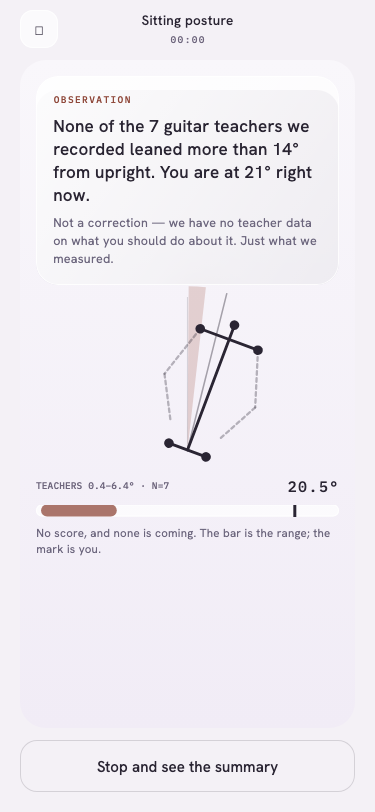
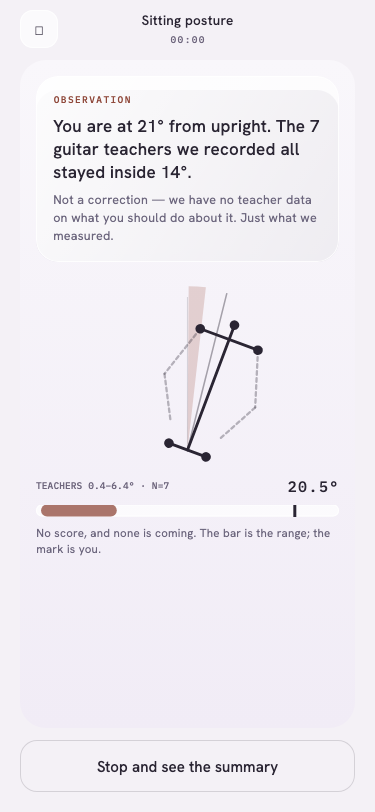
Replik çeşitliliği: 1 varyant × 13 ateşleme → 6 varyant (O-062)
Koordinatörün sevk ettiği JabLab bulgusu bende ÖLÇÜLDÜ ve daha kötü çıktı.

ÖLÇÜM:
· golden katalog: **1 şablon, 1 varyant** (`slots` varyant değil, 4 yer-tutucu)
· gözlem işareti periyodu: **31,68sn** (O-032/O-035 CANLI ölçümü, tahmin değil)
· en uzun işaretli ders `guitar.foundations.posture_under_play` 7 dk
  → **~13 ateşleme**, hepsi AYNI 125 karakterlik cümle.
JabLab'ın en kötüsü 12 ateşleme × 2 varyant = 6 tekrardı; bende 13 × 1 = 13.

KÖK NEDEN — ve bu benim kendi kanıtımın tuzağı: O-035'te işaretin NADİR
GÖRÜNÜR olduğunu kanıtlamıştım (pencerenin %7,4'ü) ve o kanıt beni "nadir
öğe" diye düşünmeye itti. **Nadir GÖRÜNEN bir öğe, sık TEKRARLANAN bir cümle
olabilir** — görünürlük ile söylenme sıklığı ayrı eksenler.

İÇERİK: 6 varyant. Altısı da AYNI ÜÇ olguyu taşır (kaynak sayısı + eşik +
anlık ölçüm) ve aynı yasak-kelime kapısından geçer. **variants[0] MEVCUT
metindir** — widget testleri ve 11 kanıt karesi onun üzerine kurulu; ilk
ateşlemeyi değiştirmek kanıtlanmış bir şeyi kanıtsız yapardı.

MEKANİZMA: round-robin, RASTGELE DEĞİL. Rastgelelik iki kez yanlış olurdu:
aynı varyant arka arkaya gelebilir (çözdüğü sorunu çözmez) ve bu yüzeyin
kanıtı deterministik testlere dayanıyor.

ÜÇ KAPI, üçü de ayrı arızaya bakıyor:
· `validate_observation_cues.py` genişletildi — kapı YALNIZ `text`e
  bakıyordu, `variants` onun DIŞINDAYDI (gecenin altıncı "yeni alan, kapının
  dışında" tekrarı). Artık her varyant: yasak kelime + yuva tamlığı +
[…]

Changed region(s): [[0.1467, 0.1232, 0.8507, 0.3387]]

diff --git a/lib/app/cue_text.dart b/lib/app/cue_text.dart
@@ -16,29 +16,51 @@ import 'package:ostinato_posture/ostinato_posture.dart';
 final class CueTextResolver {
   CueTextResolver._(this._templates);
 
-  final Map<String, String> _templates;
+  /// Şablon kimliği → VARYANT listesi. Tek varyantlı bir şablon da burada
+  /// tek elemanlı listedir; çağıran taraf farkı görmez.
+  final Map<String, List<String>> _templates;
+
+  /// Şablon başına round-robin sayacı — RASTGELE DEĞİL.
+  ///
+  /// Rastgelelik burada iki kez yanlış olurdu: (1) aynı varyant arka arkaya
+  /// gelebilir, yani çözdüğü sorunu çözmez; (2) bu yüzeyin kanıtı
+  /// deterministik testlere dayanıyor (`cue_cooldown_visibility_test`,
+  /// 11 kanıt karesi) ve rastgele bir seçim onları ölçülemez kılardı.
+  final Map<String, int> _next = <String, int>{};
 
   static Future<CueTextResolver> load() async {
     final String raw = await rootBundle
         .loadString('config/observation-cue-templates.golden.json');
     final Map<String, dynamic> doc = jsonDecode(raw) as Map<String, dynamic>;
     final Map<String, dynamic> tpl = doc['templates'] as Map<String, dynamic>;
-    return CueTextResolver._(<String, String>{
+    return CueTextResolver._(<String, List<String>>{
       for (final MapEntry<String, dynamic> e in tpl.entries)
-        e.key: (e.value as Map<String, dynamic>)['text'] as String,
+        e.key: <String>[
+          // `variants` varsa o, yoksa tek elemanlı `text`. Geriye-uyum:
+          // varyantsız bir şablon eskisi gibi çalışır.
+          ...((e.value as Map<String, dynamic>)['variants'] as List<dynamic>? ??
+                  <dynamic>[(e.value as Map<String, dynamic>)['text']])
+              .cast<String>(),
+        ],
     });
   }
 
   /// Şablonu yuvalarla doldurur. Bilinmeyen şablon SESSİZCE boş dönmez —
   /// fırlatır: eksik bir şablon, kullanıcıya yarım cümle göstermekten iyidir.
   String resolve(ObservationCue cue) {
-    final String? template = _templates[cue.templateId];
-    if (template == null) {
+    final List<String>? variants = _templates[cue.templateId];
+    if (variants == null || variants.isEmpty) {
       throw StateError(
           'golden katalogda "${cue.templateId}" şablonu YOK — yüzey, motorun '
           'ürettiği bir işareti gösteremiyor');
     }
-    String out = template;
+    // O-062: ÖLÇÜLDÜ — gözlem işareti ~31,68sn periyotla ateşleniyor
+    // (O-032/O-035 canlı ölçümü) ve en uzun işaretli ders 7 dk, yani ~13
+    // ateşleme. Tek varyantla aynı cümle bir derste 13 kez okunuyordu.
+    // NADİR GÖRÜNEN bir öğe, SIK TEKRARLANAN bir cümle olabilir.
+    final int i = _next[cue.templateId] ?? 0;
+    _next[cue.templateId] = (i + 1) % variants.length;
+    String out = variants[i];
     cue.slots.forEach((String k, String v) {
       out = out.replaceAll('{$k}', v);
     });

diff --git a/test/widget_test.dart b/test/widget_test.dart
@@ -112,7 +112,17 @@ void main() {
     expect(find.byKey(const Key('observation-cue')), findsOneWidget,
         reason: 'sapma sürdü ama işaret doğmadı — hep-sessiz yüzey');
     // Şart 3: N + kaynak sınıfı CÜMLENİN İÇİNDE — golden katalogdan.
-    expect(find.textContaining('None of the 7 guitar teachers'), findsOneWidget);
+    //
+    // ⚠ CÜMLE KALIBINA DEĞİL KAYNAĞA bağlanıyoruz (O-062). Önceki hâli
+    // `'None of the 7 guitar teachers'` diyordu; varyantlar eklenince o
+    // kalıp yalnız variants[0]'da kaldı ve test, ürün DOĞRU davranırken
+    // kırmızıya dönüyordu. Şartın kendisi kalıp değil: "kaç kaynak ve hangi
+    // sınıf" cümlenin İÇİNDE geçmeli. Altı varyantın altısı da `{n}` ve
+    // `{sourceClass}` taşıyor — `validate_observation_cues.py` bunu her
+    // varyant için ayrı ayrı kolluyor.
+    expect(find.textContaining('7 guitar teachers'), findsOneWidget,
+        reason: 'işaret kaynağını taşımıyor — sayı ve sınıf cümlenin içinde '
+            'olmalı (hangi varyant seçilirse seçilsin)');
     await src.dispose();
   });
 
@@ -126,8 +136,15 @@ void main() {
       expect(find.byKey(const Key('observation-cue')), findsOneWidget);
       // Golden şablon measuredDeg'i tam sayıya yuvarlar (ObservationCue.slots,
       // toStringAsFixed(0)) — "17°", "17.0°" DEĞİL.
-      expect(find.textContaining('You are at 17° right now'), findsOneWidget);
-      expect(find.textContaining('You are at 22° right now'), findsNothing,
+      //
+      // ⚠ CÜMLEYE DEĞİL SAYIYA bağlanıyoruz (O-062). Önceki hâli
+      // `'You are at 17° right now'` tam cümlesini arıyordu; varyantlar
+      // eklenince (round-robin) ikinci ateşleme BAŞKA bir cümle kullanıyor ve
+      // test, ürün DOĞRU davranırken kırmızıya dönüyordu. Bu testin niyeti
+      // cümle değil TAZELİK: gösterilen sayı güncel ölçümle senkron mu.
+      // Altı varyantın altısı da `{measuredDeg}°` taşıyor (kapı bunu kolluyor).
+      expect(find.textContaining('17°'), findsOneWidget);
+      expect(find.textContaining('22°'), findsNothing,
           reason: 'işaret bayat bir ölçümde donmuş — ekranda çelişen sayı');
       await src.dispose();
     });

diff --git a/test/cue_variant_rotation_test.dart b/test/cue_variant_rotation_test.dart
@@ -1,0 +1,29 @@
+import 'package:flutter_test/flutter_test.dart';
+import 'package:ostinato/app/cue_text.dart';
+import 'package:ostinato_posture/ostinato_posture.dart';
+/// Varyant rotasyonu — O-062.
+///
+/// **Neden ayrı bir test:** varyant EKLEMEK, rotasyonun ÇALIŞTIĞINI
+/// kanıtlamaz. Katalogda altı cümle durup çözücü hep ilkini döndürebilirdi ve
+/// `validate_observation_cues.py` yine yeşil kalırdı (o kapı içeriği
+/// kolluyor, DAVRANIŞI değil). Ölçülen sayı burada: en uzun işaretli ders
+/// 7 dk → ~13 ateşleme (O-032/O-035 canlı periyodu 31,68sn).
+void main() {
+  TestWidgetsFlutterBinding.ensureInitialized();
+  test('round-robin: ardışık çözümler FARKLI cümle verir', () async {
+    final CueTextResolver r = await CueTextResolver.load();
+    const ObservationCue cue = ObservationCue(
+        templateId: 'OBS_TRUNK_OUTSIDE_RANGE',
+        teacherCount: 7, sourceClass: 'guitar teachers',
+        thresholdDeg: 14.0, measuredDeg: 21.0);
+    final List<String> seen = <String>[for (int i = 0; i < 13; i++) r.resolve(cue)];
+    expect(seen.toSet().length, 6, reason: '6 varyant dönmeli');
+    expect(seen[0], seen[6], reason: 'döngü 6da başa sarmalı');
+    expect(seen[0] == seen[1], isFalse, reason: 'ardışık ikisi AYNI olmamalı');
+    // 13 ateşleme (en kötü ders) → her cümle en çok 3 kez
+    final Map<String,int> n = <String,int>{};
+    for (final String s in seen) { n[s] = (n[s] ?? 0) + 1; }
+    expect(n.values.reduce((a,b)=>a>b?a:b), lessThanOrEqualTo(3),
+        reason: 'en kötü derste bir cümle 3ten fazla tekrarlamamalı');
+  });
+}

diff --git a/tools/validate_observation_cues.py b/tools/validate_observation_cues.py
@@ -124,6 +124,27 @@ def main():
 
     # Şart 2: golden şablonların KENDİSİ yasak dil taşıyamaz.
     for tid, tpl in golden["templates"].items():
+        # O-062: `variants` eklendi ve bu kapı YALNIZ `text`e bakıyordu —
+        # yeni alan, kapının dışında kalan yeni yüzey demekti (gecenin altıncı
+        # tekrarı). Artık HER varyant aynı yasak-kelime kapısından geçiyor:
+        # bir varyant emir kipine kayarsa tek başına ihlaldir.
+        for _i, _v in enumerate(tpl.get("variants", [tpl["text"]])):
+            _h = check_wording(_v, golden["forbidden"])
+            if _h:
+                problems.append(
+                    f"{tid} varyant[{_i}]: yasak kelime {_h} — "
+                    f"varyant eklemek, kelime kuralını gevşetmenin yolu olamaz")
+            # Her varyant AYNI olguları taşımalı: eksik yuva = eksik iddia.
+            _missing = [sl for sl in tpl["slots"] if "{" + sl + "}" not in _v]
+            if _missing:
+                problems.append(
+                    f"{tid} varyant[{_i}]: yuva EKSİK {_missing} — varyantlar "
+                    f"aynı ölçümü söylemeli, biri sayıyı düşürürse cümle "
+                    f"kaynağını kaybeder")
+        if tpl.get("variants") and tpl["variants"][0] != tpl["text"]:
+            problems.append(
+                f"{tid}: variants[0] `text` ile AYNI olmalı — kanıt kareleri "
+                f"ve widget testleri ilk ateşlemenin üzerine kurulu")
         hits = check_wording(tpl["text"], golden["forbidden"])
         if hits:
             problems.append(f"ŞART 2: golden şablon {tid} yasak dil taşıyor: {hits}")
